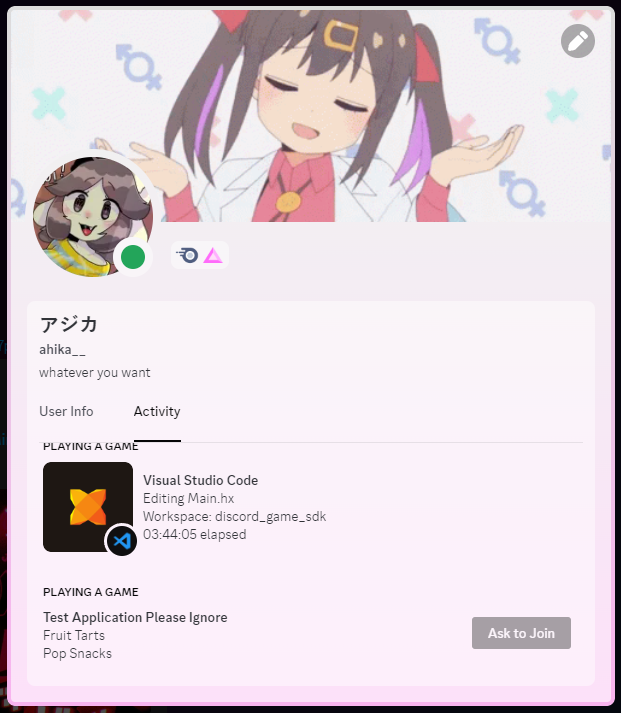
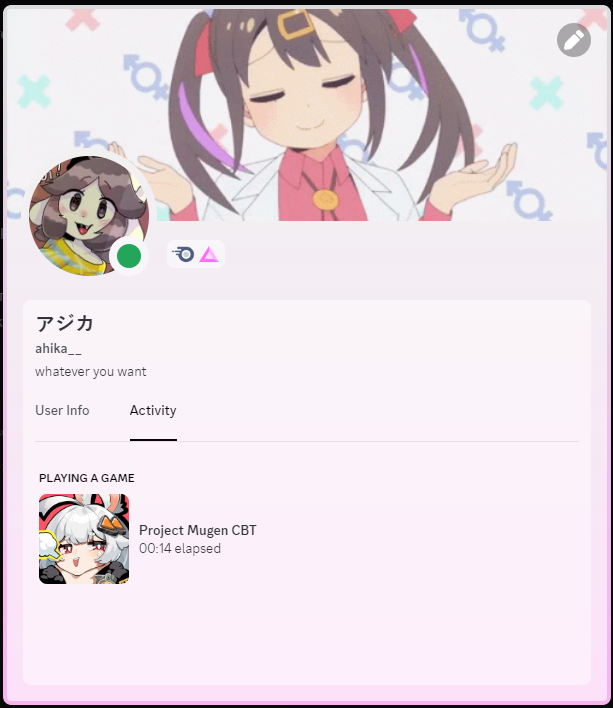
almost final update

diff --git a/LICENSE.md b/LICENSE.md
@@ -1,6 +1,7 @@
 The MIT License (MIT)
 
 Copyright (c) 2024 ahika462
+Copyright (c) 2024 snõwkit contributors
 
 Permission is hereby granted, free of charge, to any person obtaining a copy
 of this software and associated documentation files (the "Software"), to deal

diff --git a/README.md b/README.md
@@ -9,5 +9,5 @@
 * [x] Managers
 * [ ] Events
 * [ ] Finish Overlay Manager
-* [ ] Optimize types
-* [ ] Fix Activity Assets
+* [x] Fix Activity Assets
+* [ ] Fix Flixel compability
